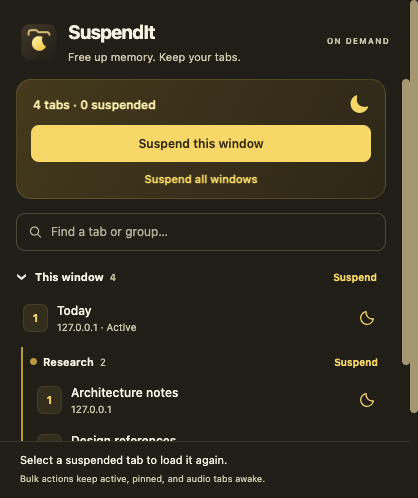
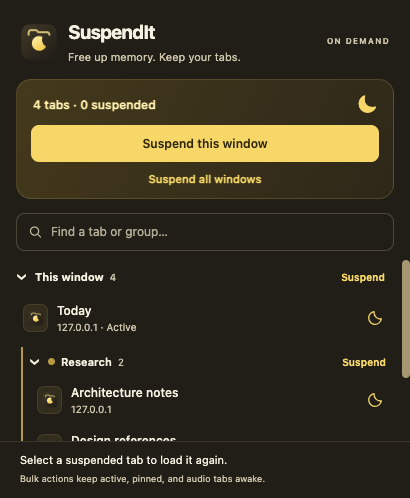
docs: document popup improvements and large tab benchmarks

diff --git a/docs/TESTING.md b/docs/TESTING.md
@@ -12,14 +12,16 @@ pnpm package
 
 Unit/integration tests cover native discard decisions, active-tab handoff, scope changes,
 partial failures, replaced tab IDs, context-menu registration/routing, message validation,
-popup search/actions, safe title rendering, and browser errors. Coverage includes every
+popup search/actions, collapse state, favicon fallback, row reuse during tab moves and updates,
+overlapping browser queries, safe title rendering, and browser errors. Coverage includes every
 production TypeScript file and requires 90% statements, branches, functions, and lines.
 
 The Playwright suite launches its bundled Chrome with the **production extension** in a
 fresh temporary profile. It opens the real toolbar popup and checks native discarded state,
 preservation of the page URL and group, reloading with `document.wasDiscarded`, all action
 scopes, pinned/audio/active protection, the single-tab limitation, search, and light/dark
-layout. HTTP test pages are served on loopback. There are no test entrypoints or mocked
+layout, fixed controls with one scrollbar, collapsible groups, and Chrome-provided favicons.
+HTTP test pages are served on loopback. There are no test entrypoints or mocked
 extension APIs in this suite.
 
 The test helper connects through Chrome's DevTools protocol to the extension worker and
@@ -32,8 +34,42 @@ Chrome can replace tab IDs while discarding; assertions follow each test page's 
 CI runs the browser suite on Ubuntu. Automated tests use full Chrome in headless mode;
 the manual steps below cover visible browser interaction. Test profiles are isolated and
 deleted after each case. The suite saves
-popup screenshots and browser logs. The audio test briefly plays a quiet tone to verify
+popup screenshots, browser logs, and performance measurements; CI uploads these on every run.
+Profile deletion retries briefly while Chrome subprocesses finish their final writes.
+The audio test briefly plays a quiet tone to verify
 Chrome's real audible-tab state.
+
+## Large tab sessions
+
+`tests/e2e/performance.spec.ts` creates real 500- and 1,000-tab sessions in a temporary profile.
+Fixture pages load in batches of at most 16, then Chrome natively discards them; the current
+page stays awake. Tabs are grouped in sets of 25. This bounds the fixture's memory use while
+exercising the full popup with hundreds of actual Chrome tabs.
+
+The test measures opening, searching, clearing search, a native group rename, and a live page
+title change. It verifies that all rows survive both updates, filtering reuses rows, and keyboard
+focus and scroll position stay unchanged. CI limits opening to 2 seconds, search/clear to 500 ms,
+and each live update to 1 second. Reports are saved as `performance.json` in `test-results` and
+included in the `playwright-artifacts` CI download.
+
+Example local run on macOS with Chromium 153, September 13, 2026 (milliseconds):
+
+| Tabs | Open | Search | Clear search | Group update | Title update |
+| --- | ---: | ---: | ---: | ---: | ---: |
+| 500 | 87 | 1.5 | 33.0 | 84.6 | 21.7 |
+| 1,000 | 166.6 | 8.9 | 31.3 | 94.2 | 23.4 |
+
+Before row reuse, a group rename replaced all 500 or 1,000 rows. Both now replace zero.
+Clearing search at 1,000 tabs took 62.3 ms before and 31.3 ms after. These are single-run
+observations, not hardware-independent guarantees. Opening includes automation observation
+latency; search includes an animation-frame boundary, and updates include browser event delivery.
+
+To run just this check:
+
+```sh
+pnpm build
+pnpm exec playwright test performance.spec.ts
+```
 
 ## Manual check
 
@@ -44,6 +80,8 @@ Chrome's real audible-tab state.
    becomes active. Selecting the suspended tab should reload the original URL.
 4. In a window containing only one awake tab, confirm individual suspension explains the
    limitation. Check the toolbar **!** tooltip after a refused context-menu action.
+5. Scroll a long tab list. Confirm search/actions remain fixed with only one scrollbar, collapse
+   a group, search for it, and clear search to restore the collapse. Check recognizable site icons.
 
 The page context menu was also checked with native mouse input in an isolated Chrome for
 Testing profile: the popup reported one suspended tab, and its Resume action loaded the

diff --git a/docs/architecture.md b/docs/architecture.md
@@ -6,6 +6,17 @@ templates. Titles and URLs are assigned with `textContent`. Site icons use Chrom
 `_favicon` endpoint, with lazy loading and a local fallback. Search and collapsed-window/group
 state live only while the popup is open.
 
+The header, search, bulk actions, and status remain fixed around one scrolling tab list.
+Group and window chevrons collapse sections in the popup. Search temporarily expands matching
+sections and restores the previous collapsed state when cleared.
+
+Rows, groups, and windows are retained by Chrome ID. Rendering counts membership and eligibility
+once, updates changed text/buttons, and inserts, moves, or removes only the affected DOM elements.
+Filtered rows remain cached until their tabs close, preserving their icons when search is cleared.
+Tab metadata events update the corresponding record directly and coalesce rendering over 16 ms.
+Structural events coalesce full queries over 75 ms. Query versions reject obsolete results, and
+newer metadata is kept when it arrives during a query. The popup releases this state when closed.
+
 The popup sends a validated scope request to the worker, which re-queries tabs, applies
 eligibility rules, and invokes `chrome.tabs.discard(tabId)`. Up to four discards run at once.
 Each result is counted separately, so one closed or refused tab does not stop a bulk action.
@@ -34,4 +45,5 @@ the other required operations.
 
 Sources: [Tabs API](https://developer.chrome.com/docs/extensions/reference/api/tabs),
 [Tab Groups API](https://developer.chrome.com/docs/extensions/reference/api/tabGroups),
-[Context Menus API](https://developer.chrome.com/docs/extensions/reference/api/contextMenus).
+[Context Menus API](https://developer.chrome.com/docs/extensions/reference/api/contextMenus),
+[Favicon service](https://developer.chrome.com/docs/extensions/how-to/ui/favicons).

diff --git a/README.md b/README.md
@@ -26,9 +26,14 @@ Requires Chrome 120 or newer.
 ## Use
 
 - Click the moon beside a tab to suspend it. Search by page title, URL, or group name.
+- Collapse windows or groups with their chevrons. Search expands matching sections; clearing it restores your collapsed sections.
 - Use a group's or window's **Suspend** button, or **Suspend all windows**. These actions apply to the entire group/window even while searching.
 - Right-click a web page and choose **Suspend this tab**.
 - Select a suspended tab, or click its title in the popup, to load the original page again.
+
+Search and bulk controls stay visible while the tab list scrolls. Site icons come from Chrome.
+Live updates retain existing rows, focus, and scroll position. Browser tests cover 500 and
+1,000 tabs; see the [performance checks](docs/TESTING.md#large-tab-sessions).
 
 Bulk actions keep active tabs in every window, pinned tabs, and audio-playing tabs awake.
 An individual action can suspend a pinned or audio-playing tab. For an active tab, SuspendIt
@@ -78,6 +83,7 @@ and [reused foundations](docs/reuse.md).
 CI checks types/lint, unit/integration coverage, the actual extension in Chromium, manifest
 permissions, and package size. Successful `main` builds upload the extension ZIP. Coverage
 reports are always available as CI artifacts; Codecov upload runs if `CODECOV_TOKEN` is configured.
+Browser artifacts include light/dark screenshots, logs, and the 500/1,000-tab benchmark report.
 
 Push a tag such as `v1.0.0` to create a draft GitHub release. Publishing that draft runs the
 checks again, derives the manifest version from the tag, and attaches the installation ZIP.
